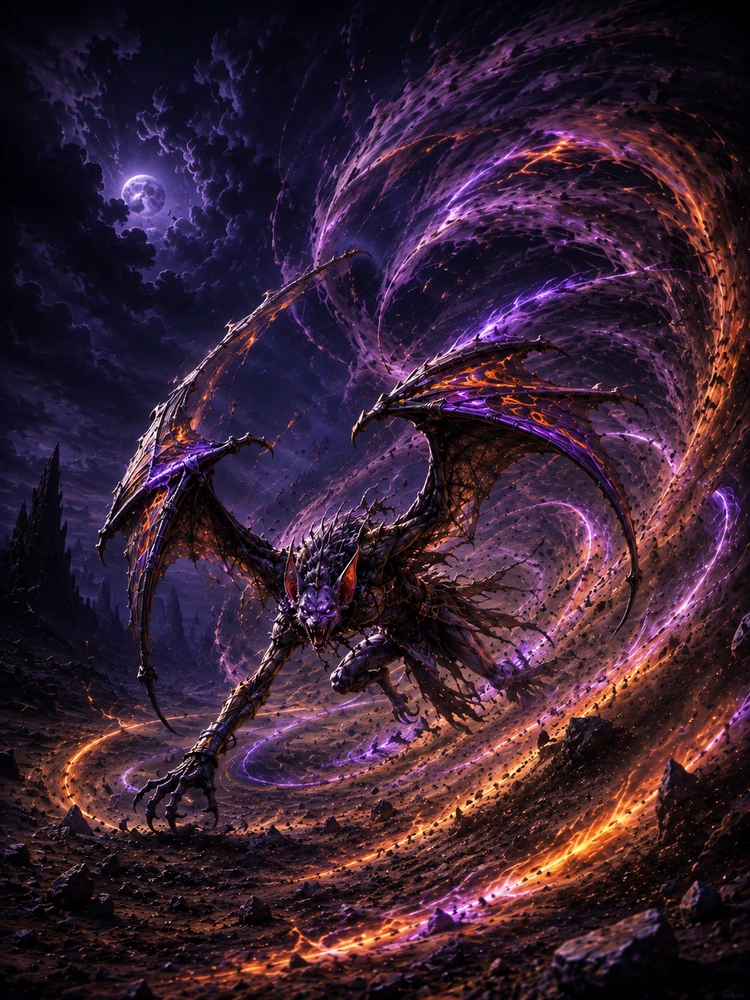
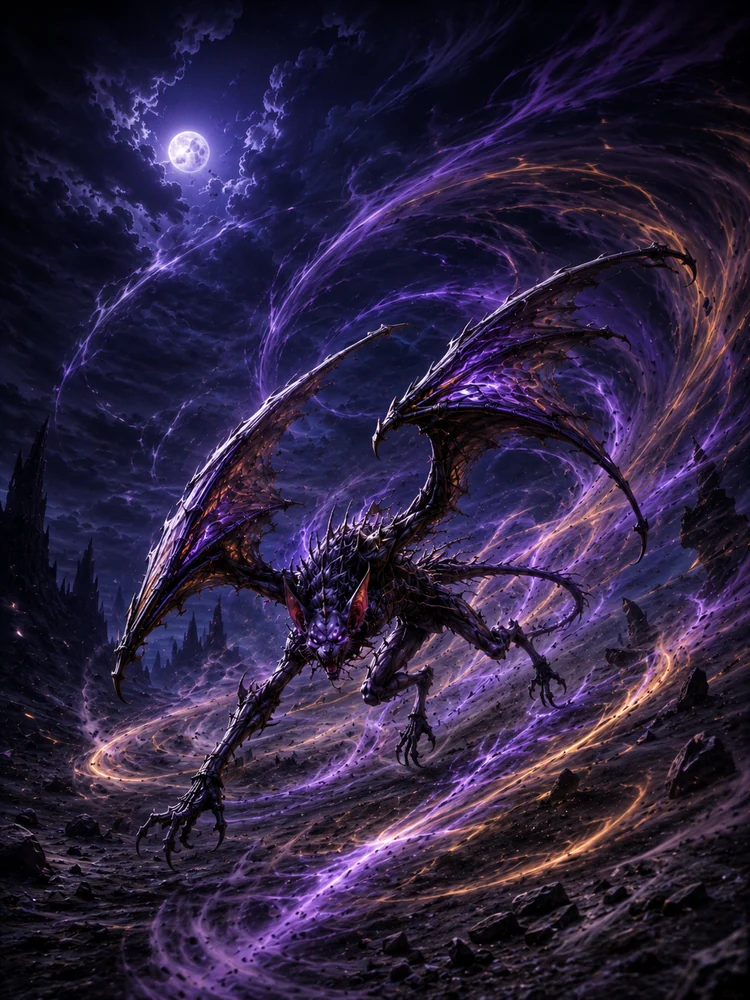
feat(void): SPINDLE and its brood — the element finally has cards
Closes the hole d17cea2 left open and named: "one test is red and stays
red until this element has a card". VOID's aura, engine hooks, constants,
styling and eight tests all shipped; nothing was VOID and nothing even
borrowed it, so One Eyes was implemented and unreachable. The suite is
green again — 2,667.

SPINDLE, Floor 5, the tower's own element standing in the tower for the
first time. Every other boss borrows two of the eight; this one IS the
ninth. Body 400, deliberately the SMALLER kind of Floor 5 next to
Skybreaker's 337 and Continental's 511 — the cap is 660 and the cap is a
ceiling, not a target. Its threat is not meat: it brings nine Watchers
and every one of them runs One Eyes, so the whole side steals a point of
damage per landed swing and deflects every fourth blow back at you. A big
body on top of that is two bosses.

SIX SPAWNS in TOKENS, not CARDS, and that is load-bearing: the set's
evenness invariant is 45 draftable x 8 elements = 360, so a ninth element
with draftable cards breaks it. VOID is the tower's element, not a ninth
deck. They need no printed passive — the swarm IS the mechanic.

A VOID-ONLY TEAM, which took a real fix rather than a formation list. The
formation was already all-Watcher, but the reinforcement bench came back
14 VOID + 1 BOLT: `reinforcementPool` takes half the tribe (three of six)
and then tops up to four from the boss's ELEMENTS — reaching outside a
tribe that still had three members standing. Now it exhausts its own
[…]

diff --git a/src/data/cards.ts b/src/data/cards.ts
@@ -11279,6 +11279,62 @@ export const CARDS: CardDef[] = [
     },
   },
   {
+    id: "boss_spindle",
+    name: "Spindle",
+    rarity: "mythic",
+    element: "VOID",
+    // Floor 5 is a THREE-element design, and VOID can only print one of them.
+    // VOID is the tribe (the brood of eyes), DUSK is the mechanic its Special
+    // expresses (the gaze that blinds), BOLT is the lock it puts on a Special
+    // it does not like. `elementAuras` must list exactly the two it does NOT
+    // print -- void-tower.test.ts asserts the card and its VOID_BOSSES entry
+    // agree, which is how sixteen bosses were caught running one element while
+    // their entry described two.
+    elementAuras: ["BOLT", "DUSK"],
+    cardClass: "Mage",
+    tribe: "Watcher",
+    attackType: "Ranged",
+    boss: true,
+    cost: 12,
+    // 22*2 + 290 + 28*2 + 10 = 400.
+    //
+    // NOT the 660 the Floor-5 cap allows, and the cap is the trap here: it is a
+    // CEILING and the spread underneath it is the tuning. Its floor-mates are
+    // measured at 337 (Skybreaker) and 511 (Continental), so 400 sits between
+    // them -- and this boss should be the SMALLER kind of Floor 5, because the
+    // threat is not the body. It brings nine Watchers, every one of them running
+    // One Eyes, so the fight is a brood stealing a point of damage per swing and
+    // deflecting every fourth blow back. Meat on top of that is two bosses.
+    //
+    // It needs no printed steal or deflect for the same reason: One Eyes is
+    // VOID's ELEMENT aura, so the boss and all nine spawns run it for free.
+    dmg: 22,
+    hits: 2,
+    hp: 290,
+    sp: 10,
+    shields: 28,
+    keywords: { PEN: true },
+    // THE 3-ROUND CLOCK every boss is on, plus a gait. `kite` because a giant
+    // eye keeps its sight lines: it backs off as the board closes rather than
+    // standing to be hit. Deliberately not "still" -- that list is NAMED
+    // (Overclock is a production line, Smolder is a tree) and a third cannot
+    // join it by accident.
+    roundTick: { fireSpecialEveryN: 3, kite: { belowPct: 50 } },
+    special: {
+      name: "Unblinking Gaze",
+      cost: 4,
+      // NO `cooldown`. The boss clock owns boss timing -- `fireSpecialEveryN`
+      // above is the beat, and void-tower.test.ts fails a boss Special that
+      // declares its own.
+      handler: "statusNova",
+      // The two borrowed elements, in one button: BOLT's lock and DUSK's dark.
+      params: { targets: 3, statusKind: "MUTED", statusDuration: 2,
+                debuffStatus: "BLIND", debuffStatusRounds: 2 },
+      targetSide: "enemy",
+      text: "It looks at three of you: MUTED for 2 rounds, and BLIND for 2. 3-round cooldown.",
+    },
+  },
+  {
     id: "boss_skybreaker",
     name: "Skybreaker",
     rarity: "mythic",
@@ -13302,6 +13358,119 @@ export const CARDS: CardDef[] = [
 // them. (Reptilian and Heir used to live here — they are draftable now, but are
 // still spawned by Trinezer and Imperator exactly as before.)
 export const TOKENS: CardDef[] = [
+  // ── VOID — the Watcher brood ────────────────────────────────────────
+  // One Eyes is VOID's aura and every one of these carries it by element: each
+  // landed strike steals a point of damage from what it hits, and every fourth
+  // hit against it is deflected. That is the whole tribe's identity, so the
+  // spawns need no printed passive to express it -- the swarm IS the mechanic,
+  // and a board of nine of them is nine small thefts a round.
+  //
+  // In TOKENS rather than CARDS on purpose: the set's evenness invariant is
+  // `45 draftable x 8 elements = 360`, and a ninth element with draftable cards
+  // breaks it. VOID is the tower's element, not a ninth deck.
+  {
+    id: "void_mote_tok",
+    name: "Mote",
+    rarity: "rare",
+    element: "VOID",
+    cardClass: "Assassin",
+    tribe: "Watcher",
+    attackType: "Melee",
+    cost: 2,
+    // 5 + 9 + 6 = 20 = 5*2+10. On the curve like everything else, even though
+    // nothing buys these -- a token off the curve is a boss budget that lies.
+    dmg: 5,
+    hits: 1,
+    hp: 9,
+    sp: 6,
+    shields: 0,
+    keywords: {},
+  },
+  {
+    id: "void_watcher_tok",
+    name: "Watcher",
+    rarity: "rare",
+    element: "VOID",
+    cardClass: "Ranger",
+    tribe: "Watcher",
+    attackType: "Ranged",
+    cost: 3,
+    // 6 + 10 + 1*2 + 7 = 25 = 5*3+10.
+    dmg: 6,
+    hits: 1,
+    hp: 10,
+    sp: 7,
+    shields: 1,
+    keywords: {},
+  },
+  {
+    id: "void_lidless_tok",
+    name: "Lidless",
+    rarity: "rare",
+    element: "VOID",
+    cardClass: "Mage",
+    tribe: "Watcher",
+    attackType: "Ranged",
+    cost: 4,
+    // 7 + 13 + 1*2 + 8 = 30 = 5*4+10.
+    dmg: 7,
+    hits: 1,
+    hp: 13,
+    sp: 8,
+    shields: 1,
+    keywords: {},
+  },
+  {
+    id: "void_scryer_tok",
+    name: "Scryer",
+    rarity: "epic",
+    element: "VOID",
+    cardClass: "Support",
+    tribe: "Watcher",
+    attackType: "Ranged",
+    cost: 5,
+    // 6 + 18 + 2*2 + 7 = 35 = 5*5+10.
+    dmg: 6,
+    hits: 1,
+    hp: 18,
+    sp: 7,
+    shields: 2,
+    keywords: {},
+  },
+  {
+    id: "void_sentinel_tok",
+    name: "Sentinel Eye",
+    rarity: "epic",
+    element: "VOID",
+    cardClass: "Tank",
+    tribe: "Watcher",
+    attackType: "Melee",
+    cost: 6,
+    // 6 + 24 + 3*2 + 4 = 40 = 5*6+10.
+    dmg: 6,
+    hits: 1,
+    hp: 24,
+    sp: 4,
+    shields: 3,
+    keywords: {},
+  },
+  {
+    id: "void_occulith_tok",
+    name: "Occulith",
+    rarity: "legendary",
+    element: "VOID",
+    cardClass: "Warrior",
+    tribe: "Watcher",
+    attackType: "Melee",
+    cost: 8,
+    // 11 + 26 + 4*2 + 5 = 50 = 5*8+10.
+    dmg: 11,
+    hits: 1,
+    hp: 26,
+    sp: 5,
+    shields: 4,
+    keywords: { PEN: true },
+  },
   {
     id: "bore_rolling_boulder_tok",
     name: "Rolling Boulder",

diff --git a/src/data/void-tower.ts b/src/data/void-tower.ts
@@ -447,6 +447,40 @@ export const VOID_BOSSES: VoidBoss[] = [
     puzzle: "The bonfire: everything that touches it burns — fight it at range.",
   },
   {
+    cardId: "boss_spindle",
+    // FLOOR 5. The tower's own element finally stands in it: every other boss
+    // borrows two of the eight, and this one IS the ninth -- the thing the
+    // building is named after, kept for the top.
+    floor: 5,
+    // VOID is the tribe, which is what makes `boss_oculus` the first card in
+    // the game printed VOID and closes the auras.test.ts hole ("an element with
+    // no cards is incomplete"). Its brood are the six Watcher tokens.
+    tribeElement: "VOID",
+    // DUSK is the mechanic the Special expresses -- Unblinking Gaze is a stare
+    // that blinds.
+    mechanicElement: "DUSK",
+    // ...and BOLT is the lock in it. Three elements, which Floor 5 allows and
+    // `elementProblems` enforces below it.
+    thirdElement: "BOLT",
+    tribe: "Watcher",
+    // 8 + 6 + 6 + 5 + 5 + 4 + 4 + 3 + 3 = 44, exact -- Floor 5's budget.
+    // Entirely its own brood, which no other boss can say: the Watchers are the
+    // only VOID cards that exist, so the formation is the element.
+    //
+    // Duplicates are inside the formation caps (Rare x3, Epic x2,
+    // Legendary/Mythic x1): Watcher and Lidless are Rare and appear twice,
+    // Scryer and Sentinel are Epic and appear twice, Occulith is Legendary and
+    // appears once.
+    summons: [
+      "void_occulith_tok",
+      "void_sentinel_tok", "void_sentinel_tok",
+      "void_scryer_tok", "void_scryer_tok",
+      "void_lidless_tok", "void_lidless_tok",
+      "void_watcher_tok", "void_watcher_tok",
+    ],
+    puzzle: "Attrition inverted: every swing you take feeds them. Kill the brood, not the eye.",
+  },
+  {
     cardId: "boss_skybreaker",
     // FLOOR 5, and the first boss to stand on it. `voidFloors()` is derived
     // from this array, so the floor exists because this line does — there is no
@@ -785,6 +819,26 @@ export function reinforcementPool(boss: VoidBoss): string[] {
   const drafted = (id: string) => !TOKEN_IDS.has(id) || authored.has(id);
   const pool = tribePool(boss.tribe).filter(drafted);
   const bench = pool.slice(0, Math.max(2, Math.min(4, Math.ceil(pool.length / 2))));
+  // THE TRIBE FIRST, TO EXHAUSTION. The bench wants four names and the slice
+  // above takes only half the tribe, so a six-member tribe handed over three
+  // and then went shopping in another element for the fourth while three of its
+  // own stood unused. Reaching outside a tribe that is not empty is the bug,
+  // and it is most visible on Spindle: VOID's entire existence is six Watchers,
+  // and the bench pulled a BOLT card into a fight whose whole point is that the
+  // brood has no allies.
+  // ...but the bench is the CHEAP END, and that rule outranks this one. Kato's
+  // tribe holds a card as dear as anything it can field, so exhausting the
+  // tribe blindly promoted the elite onto the reinforcement bench -- which is
+  // the exact failure the padding rule exists to stop (Rotroot with fifteen
+  // Zombinations). Anything at or above the dearest thing the boss may field is
+  // not rank and file, whoever it is related to.
+  const dearest = Math.max(...bossSummonPool(boss).map((id) => getDef(id).cost));
+  for (const id of pool) {
+    if (bench.length >= 4) break;
+    if (!bench.includes(id) && getDef(id).cost < dearest) bench.push(id);
+  }
+  // ...and only then outside it, for the tribes genuinely too small to field a
+  // bench of four on their own.
   if (bench.length < 4) {
     for (const id of bossSummonPool(boss)) {
       if (bench.length >= 4) break;

diff --git a/src/data/lore/void.ts b/src/data/lore/void.ts
@@ -1,0 +1,41 @@
+/**
+ * VOID card lore — the ninth element, and the only one with no deck.
+ *
+ * Keyed by card id, merged onto CardDef.lore at load — see ./index.ts.
+ *
+ * VOICE RULES — VOID
+ *   1. VOID does not want. The other eight all want something; this one only
+ *      NOTICES, and being noticed is the harm. Lines are observations, never
+ *      threats.
+ *   2. It speaks about the reader, not to them. No second person addressed
+ *      directly, no boast, no bargain — a thing that is looking does not
+ *      announce itself.
+ *   3. Nothing is described as dark. Dark is DUSK's word and DUSK uses it to
+ *      mean cover. VOID is not hiding anything; it is what is left when there
+ *      is nothing to hide behind.
+ */
+export const VOID_LORE: Record<string, string> = {
+  boss_spindle:
+    "It is not a spider and there is no web. Those are the words that fit closest, "
+    + "which is not the same as fitting. The legs came later, grown to hold the eye "
+    + "at a height where nothing is out of sight, and the eye came first, and before "
+    + "the eye there is no record of anything at all.",
+  void_mote_tok:
+    "The smallest piece that can still look. It takes almost nothing from what it "
+    + "touches — a single point, once — and it is never once.",
+  void_watcher_tok:
+    "It does not follow. It arrives where you were going to be, and waits the "
+    + "difference out.",
+  void_lidless_tok:
+    "There was never a lid. The name is a courtesy paid by whoever had to write it "
+    + "down, and they wrote it from memory, afterwards.",
+  void_scryer_tok:
+    "It reads the brood the way the brood reads you, and what it learns travels "
+    + "outward faster than anything crosses the ground between them.",
+  void_sentinel_tok:
+    "Set down at the edge of the light and left there. Everything since has walked "
+    + "around it, which was the entire instruction.",
+  void_occulith_tok:
+    "The eye that grew a body instead of the other way round. Every fourth blow "
+    + "comes back — not returned, exactly. Copied.",
+};

diff --git a/src/engine/__tests__/void-tower.test.ts b/src/engine/__tests__/void-tower.test.ts
@@ -144,6 +144,12 @@ describe("the roster", () => {
       // the number under it is the tuning, and building to the ceiling is how
       // you get a boss nobody reaches.
       boss_helion: 248, boss_hoarfell: 346,
+      // OCULUS, the VOID boss, deliberately the smaller kind of Floor 5 next to
+      // Skybreaker's 337 and Continental's 511. Its threat is the brood: nine
+      // Watchers, every one running One Eyes, so the side steals a point of
+      // damage per landed swing and deflects every fourth blow. A big body on
+      // top of that would be two bosses.
+      boss_spindle: 400,
       // Thunderfangs is the smallest body on the top floor ON PURPOSE:
       // most of its damage is borrowed from the pack and handed back as
       // the pack dies, so a Floor-3 body on top of that is two bosses'

diff --git a/src/data/lore/index.ts b/src/data/lore/index.ts
@@ -19,13 +19,14 @@ import { BOLT_LORE } from "./bolt";
 import { AQUA_LORE } from "./aqua";
 import { DAWN_LORE } from "./dawn";
 import { BORE_LORE } from "./bore";
+import { VOID_LORE } from "./void";
 
 /** Every element's map, kept as a list so `lore.test.ts` can spot the same id
  *  being claimed by two elements — a plain spread would silently let the last one
  *  win, and the losing line would vanish with nothing to show it ever existed. */
 export const LORE_SOURCES: Record<string, string>[] = [
   LEAF_LORE, PYRO_LORE, GALE_LORE, DUSK_LORE, BOLT_LORE, AQUA_LORE, DAWN_LORE,
-  BORE_LORE,
+  BORE_LORE, VOID_LORE,
 ];
 
 export const LORE: Record<string, string> = Object.assign({}, ...LORE_SOURCES);

diff --git a/src/data/deck-code.ts b/src/data/deck-code.ts
@@ -206,6 +206,9 @@ export const CODE_IDS: readonly string[] = [
   // every deck code anyone has saved.
   "bore_kingcobra_tok",
   "dusk_monstrous_spider_tok",
+  // APPENDED, never inserted: a code is an index into this list, so a new id
+  // goes on the end or every deck code in the wild changes meaning.
+  "boss_spindle",
 ];
 
 const INDEX_OF = new Map<string, number>(CODE_IDS.map((id, i) => [id, i]));
